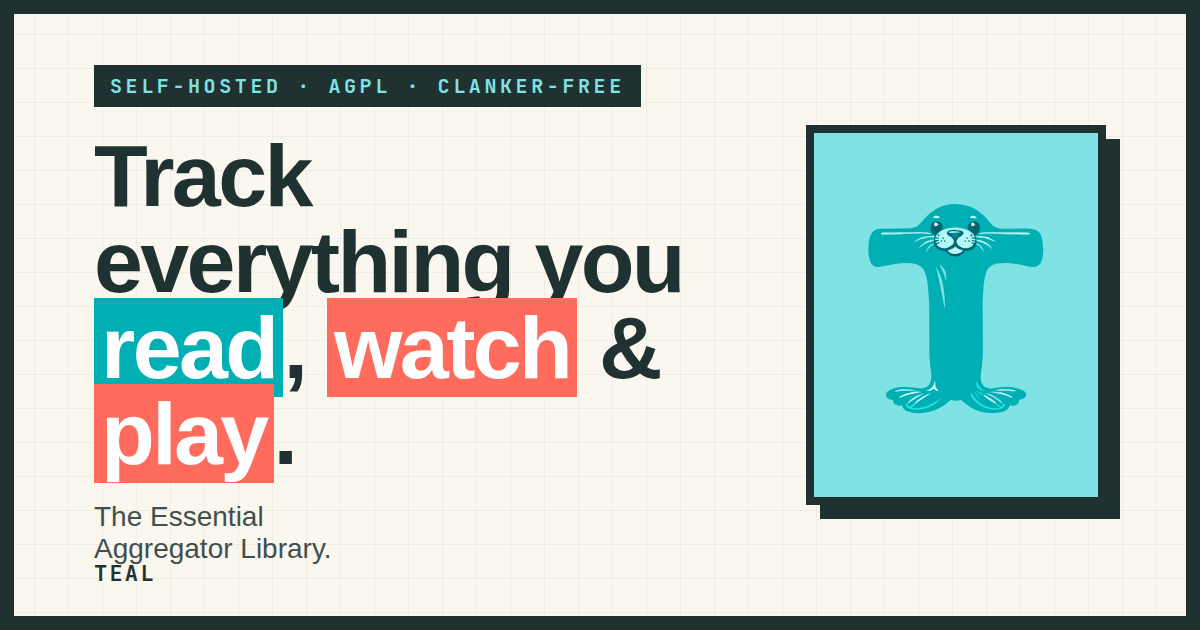
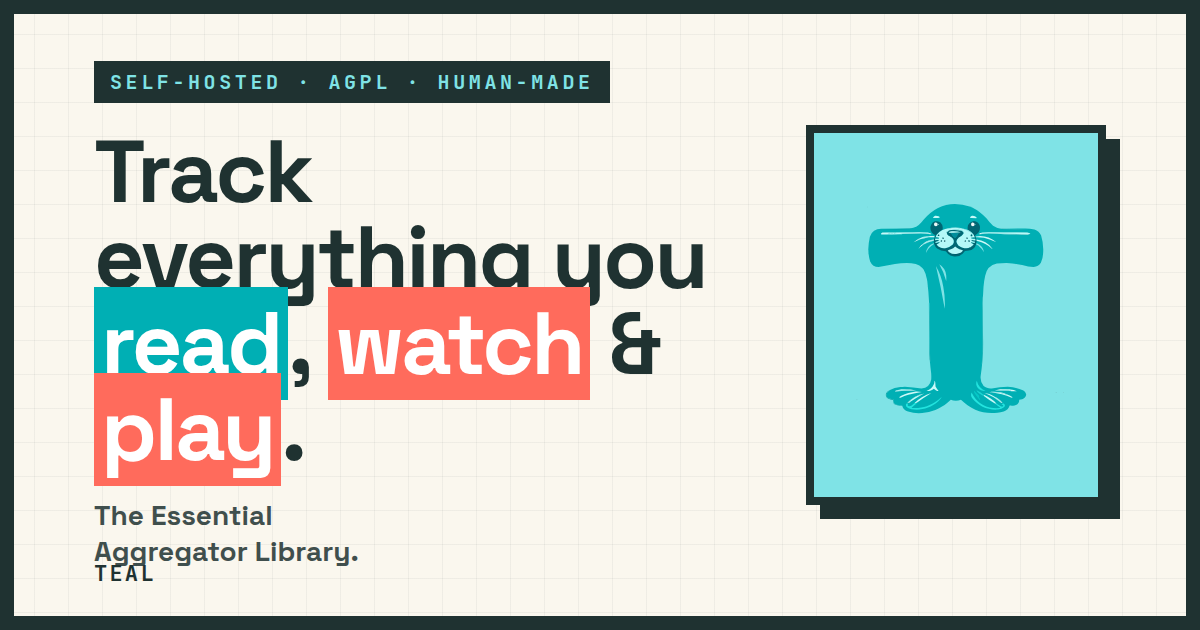
landing: soften ethos to plain 'human-made & copyleft'
Drops the anti-AI framing — keeps the human-made + AGPL copyleft message,
nothing more. Updates the OG eyebrow to match.

Changed region(s): [[0.0617, 0.3619, 0.5858, 0.9048], [0.0925, 0.0905, 0.555, 0.181], [0.0617, 0.2111, 0.2775, 0.3317]]

diff --git a/resources/views/welcome.blade.php b/resources/views/welcome.blade.php
@@ -312,8 +312,8 @@
             <img class="mark" src="/brand/seal-glyph.svg" alt="">
             <div>
                 <p class="kicker">Why it's built this way</p>
-                <h2>Human-made. Copyleft. Clanker-free.</h2>
-                <p>TEAL is hand-built by a person who actually uses it — not generated, not slop, not a growth funnel. It's <b>AGPL-3.0</b>: run it, fork it, improve it, but you can't lock it away or sell our work back to us. Built for humans keeping track of what they love — not for models strip-mining your taste.</p>
+                <h2>Human-made &amp; copyleft.</h2>
+                <p>TEAL is hand-built by someone who actually uses it, and it's <b>AGPL-3.0</b> — copyleft, so it stays free: run it, fork it, improve it, share your changes back. A small tool made to be kept, not monetised.</p>
             </div>
         </div>
     </section>